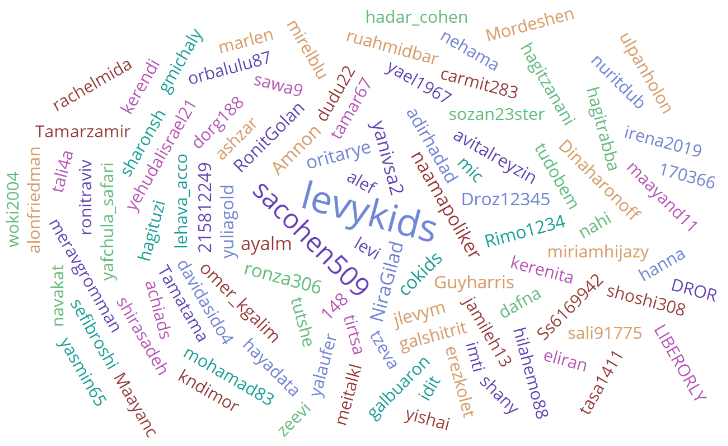
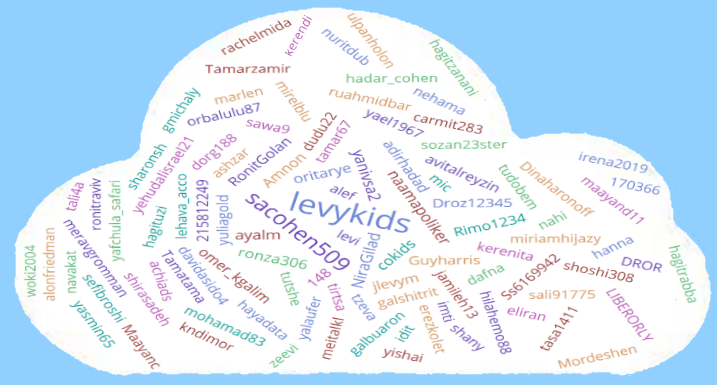
update key contributor cloud image

diff --git a/app/styles/_about.scss b/app/styles/_about.scss
@@ -43,7 +43,7 @@
     }
     .lessonCreatorImg {
         width: 730px;
-        height: 450px;
+        height: 390px;
         display: inline-block;
         background: url("../images/lessonCreators.png");
     }
